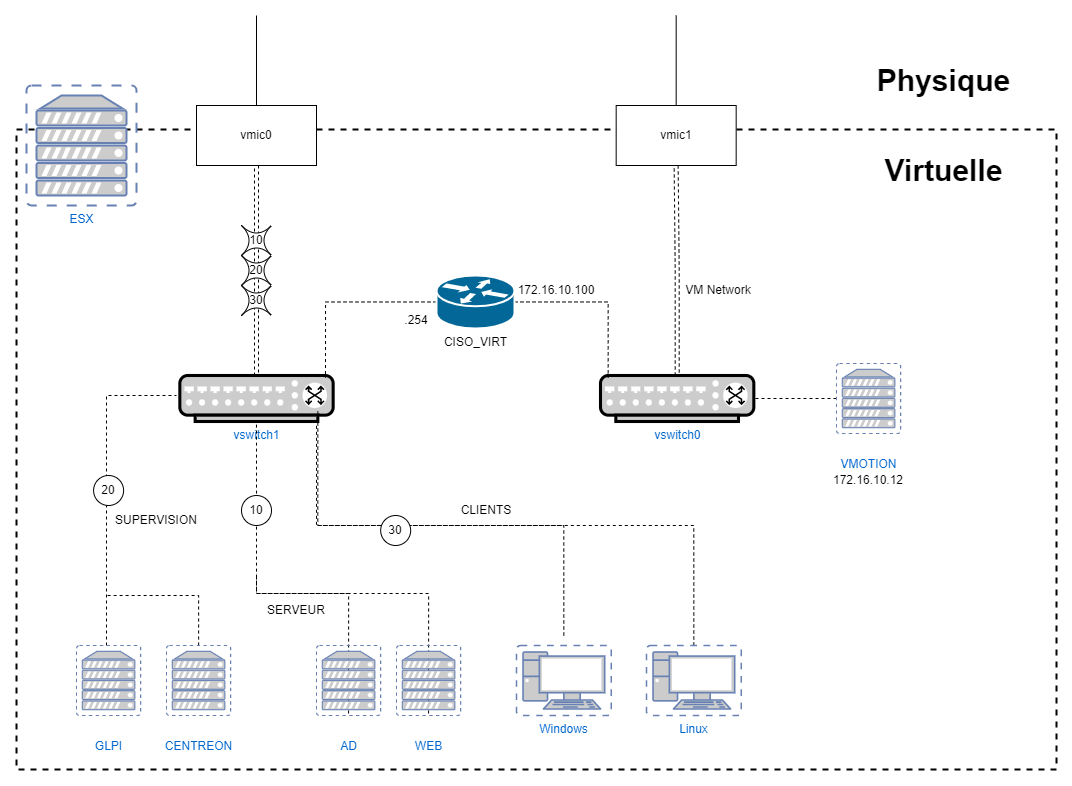
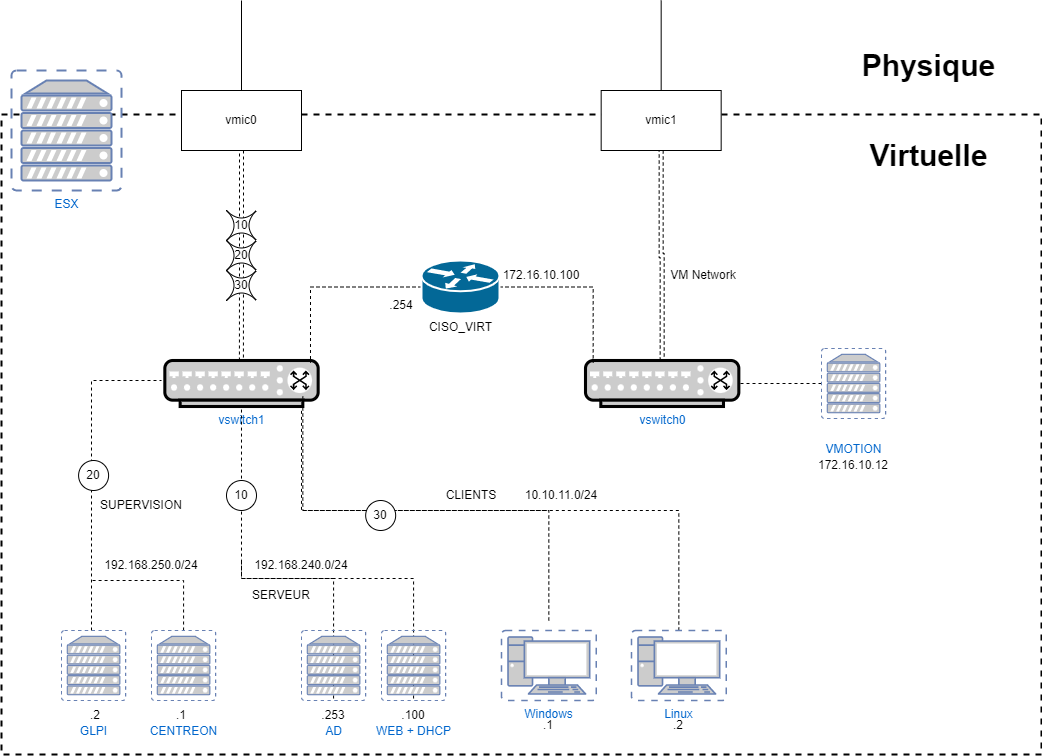
vault backup: 2022-11-07 09:10:55

diff --git a/CR_SAE_VIRTUALISATION/SAE Virtualisation.md b/CR_SAE_VIRTUALISATION/SAE Virtualisation.md
@@ -1,4 +1,4 @@
-Présentation du projet
+Mise en place de la maquette du projet réseau de première année dans les hyperviseurs VMWare ESXI.
 # Présentation de l'infrastructure
 ## Plan câblage physique
 ![schema physique](assets/schema_physique_virtualisation.png)
@@ -6,14 +6,38 @@ Présentation du projet
 ![schema virtuel](assets/schema_virtuel.png)
 
 ## Groupe de ports
+Configuration du switch physique pour le taggage
+```
+Switch> enable
+Switch# configure terminal
+Switch(config)# interface gigabitethernet [Num ports]
+Switch(config-if)# switchport mode trunk
+
+```
 ## Routeur Cisco
+```
+Cisco> enable
+Cisco# configure terminal
+Cisco(config)# interface gigabitethernet [Num ports]
+Cisco(config-if)# ip address @IP @MASK
+
+# Configuration du routage
+Cisco(config-if)# ip route add 0.0.0.0 0.0.0.0 172.16.0.1
+Cisco(config)# ip routing
+
+# Configuration pour le DHCP
+Cisco(config-if)# ip helper-address 192.168.240.100
+
+# Configuration des règles NAT et PAT
+Cisco(config-if)# ip nat inside/outside # En fonction de l'interface si LAN ou WAN
+Cisco(config)# access-list 1 permit 10.10.11.0 0.0.0.255
+Cisco(config)# ip nat inside source liste 1 [interface sortie] overload
+```
 # Présentation des services
-## Clients
-### Linux
-### Windows 10
-## Services serveurs
 ### Active Directory
+[AJOUTER SCREENSHOT ADD]
 ### Web: Apache
+[AJOUTER SCREENSHOT APACHE FONCTIONNEL]
 ## Services de supervisions
 ### GLPI
 #### Installation
@@ -325,8 +349,18 @@ vim-cmd hostsvc/firmware/restore_config /<repertoire>/configBundle.tgz
 
 ## VMotion: Haute Disponibilité
 ### Configuration
-### Test de fonctionnement
-## VMotion: Répartition de charges
-### Configuration
-### Test de fonctionnement
-## Datastore
+- Dans la page d'accueil de vSphere Client, accédez à ``Accueil > Hôtes et clusters.``
+- Cliquez avec le bouton droit sur le centre de données et sélectionnez ``Nouveau cluster``.
+- Saisissez un nom pour le cluster.
+- Sélectionnez les fonctionnalités de cluster vSphere HA.
+### Ajout de clients dans le cluster
+- Dans vSphere Client, accédez à un cluster d'un centre de données.
+- Dans l'onglet Configurer, sélectionnez Configuration > Démarrage rapide.
+- Cliquez sur Ajouter dans la carte Ajouter des hôtes.
+- Sur la page Ajouter des hôtes, ajoutez des hôtes nouveaux ou existants au cluster.
+    -   Ajoutez des hôtes qui ne font pas partie de l'inventaire de vCenter Server.
+        1.  Cliquez sur l'onglet Nouveaux hôtes.
+        2.  Renseignez les zones de texte Adresse IP et d'informations d'identification pour ces hôtes.
+    -   Ajoutez des hôtes qui sont gérés par votre instance vCenter Server et qui sont dans le même centre de données que votre cluster.
+        1.  Cliquez sur l'onglet Hôtes existants.
+        2.  Dans la liste, sélectionnez les hôtes que vous souhaitez ajouter au cluster.
